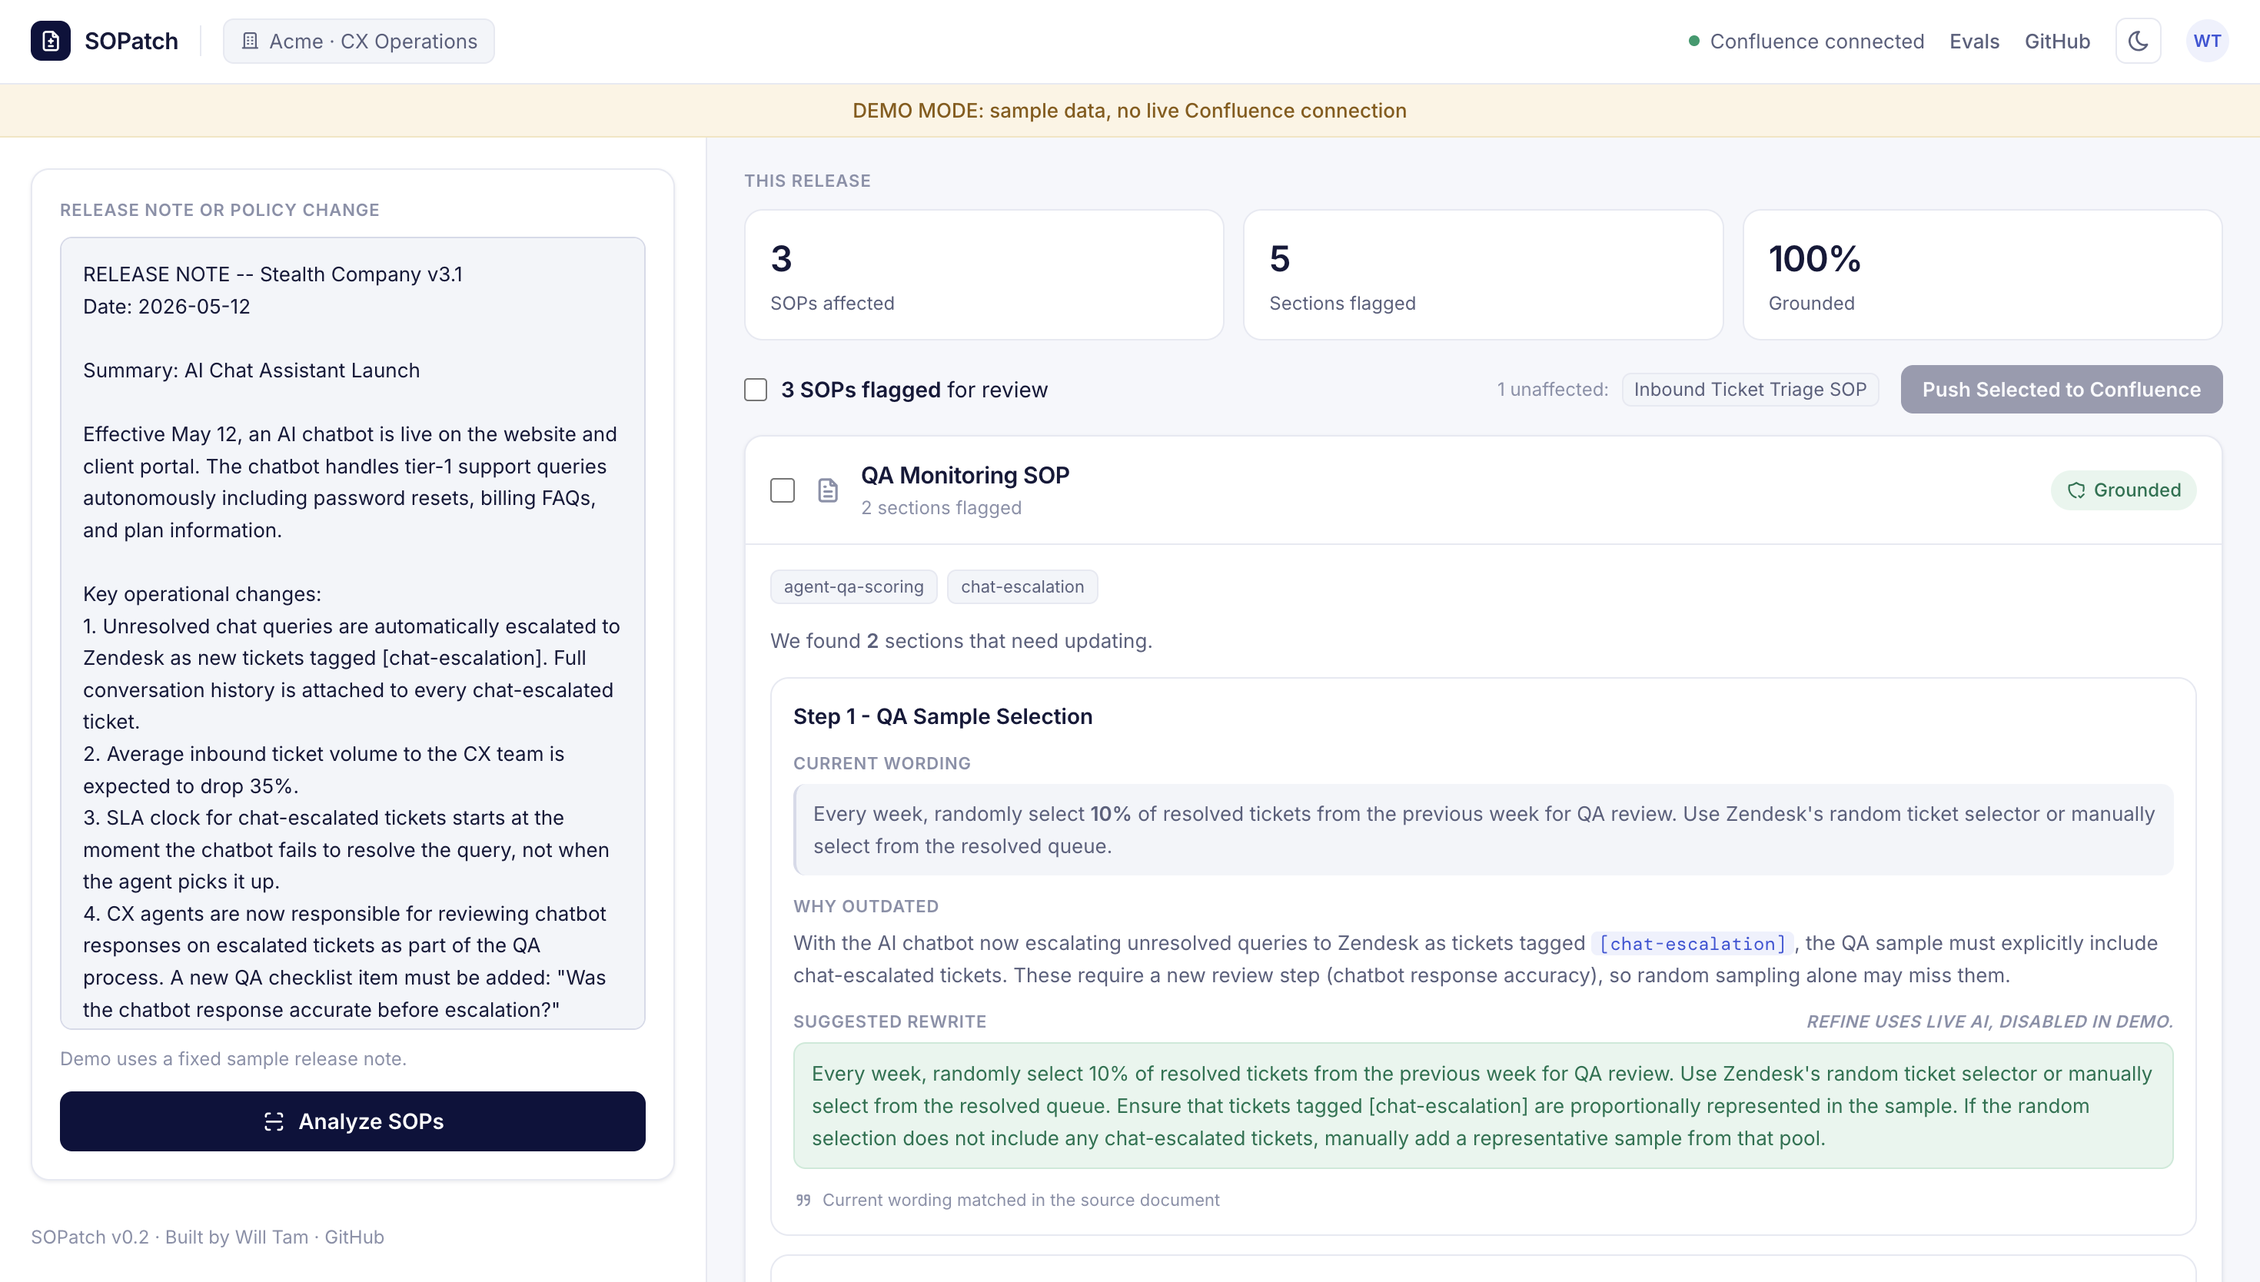
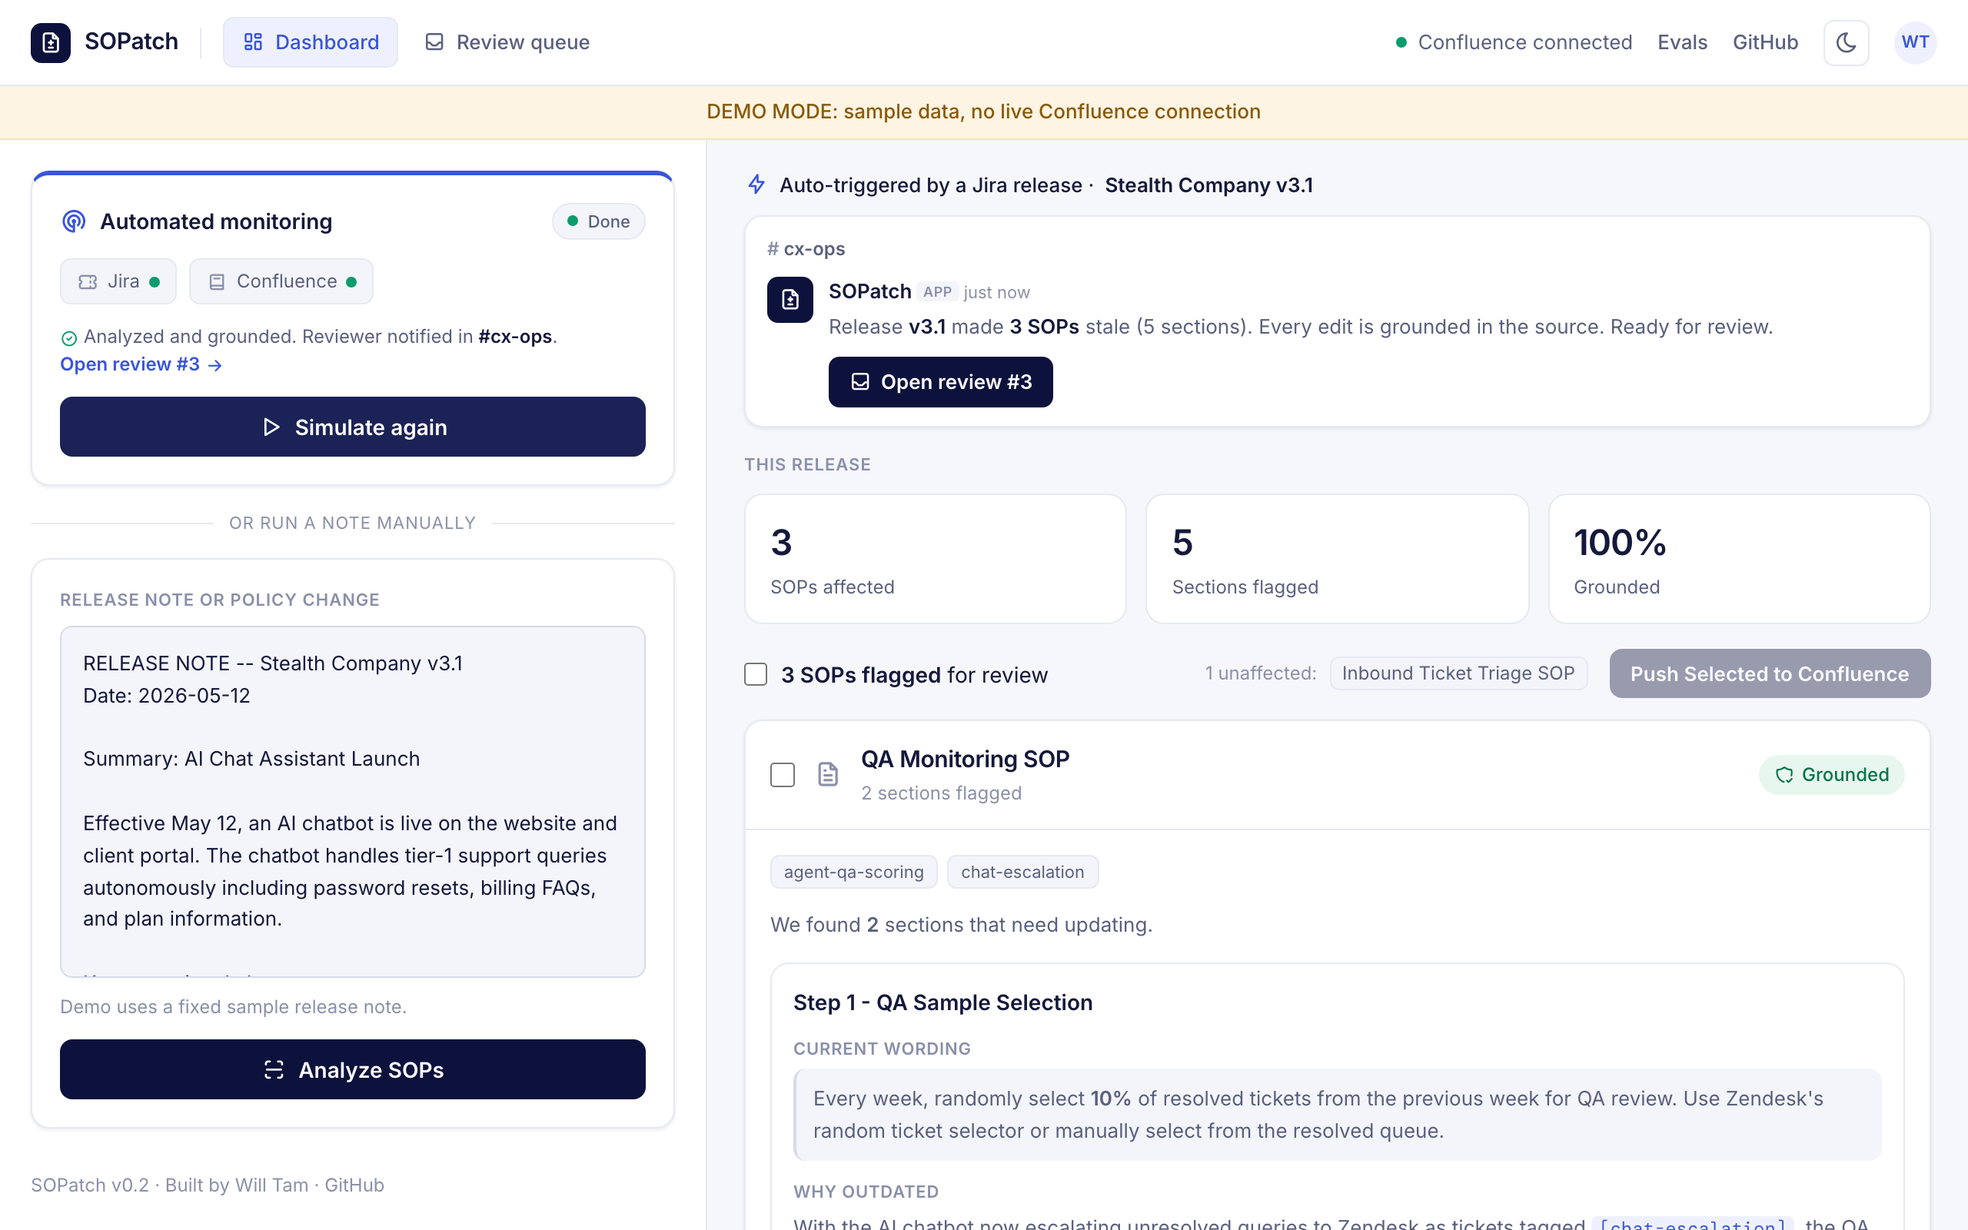
Approval now ships the edit; regenerate docs screenshots from the real app
Two loose ends from the review queue.

Approving a run only recorded a decision; pushing to Confluence was still a
separate manual step, which meant the "human approves, then it ships" story
stopped halfway. Approval now pushes each flagged SOP with version tracking and
audits every page on its own, so a partial failure records which SOPs landed and
which did not rather than failing the whole approval. Demo Mode records the
intent and sends nothing. Rejection never pushes. Three tests cover all of it.

The README screenshots were from July and showed a UI that no longer existed (no
review queue, old nav). Rather than retake them by hand and watch them rot again,
scripts/shoot_docs.py boots the demo against a throwaway database, seeds a
representative queue, drives the real UI with Playwright and writes the PNGs.
Added requirements-dev.txt for the dev-only tooling.

diff --git a/templates/review.html b/templates/review.html
@@ -173,7 +173,7 @@
     {% if run.status == 'pending' %}
     <button class="btn btn-approve" id="btn-approve" onclick="decide('approved')"><i class="ti ti-check" aria-hidden="true"></i>Approve edits</button>
     <button class="btn btn-reject" id="btn-reject" onclick="decide('rejected')"><i class="ti ti-x" aria-hidden="true"></i>Reject</button>
-    <span class="decided-note" id="decide-hint">{% if demo_mode %}Demo: your decision is recorded and audited; nothing is pushed to Confluence.{% else %}Approving records the decision. The live push to Confluence is the next step.{% endif %}</span>
+    <span class="decided-note" id="decide-hint">{% if demo_mode %}Demo: your decision is recorded and audited; nothing is pushed to Confluence.{% else %}Approving records the decision and pushes the approved edits to Confluence.{% endif %}</span>
     {% else %}
     <span class="decided-note"><i class="ti {{ 'ti-circle-check' if run.status == 'approved' else 'ti-circle-x' }}" aria-hidden="true"></i> {{ run.status | capitalize }} by {{ run.approver }} at {{ run.decided_at }}.</span>
     {% endif %}
@@ -222,13 +222,31 @@
         badge.className = 'status-badge status-' + cls;
         badge.innerHTML = `<i class="ti ${cls === 'approved' ? 'ti-circle-check' : 'ti-circle-x'}"></i> ${data.status}`;
       }
+      // Say what actually happened to the edits, not just that a button was clicked.
+      let pushNote = '';
+      const p = data.push;
+      if (p && p.demo) {
+        pushNote = ' Demo mode, so nothing was sent to Confluence.';
+      } else if (p && p.attempted) {
+        pushNote = ` Pushed ${p.pushed} of ${p.attempted} SOP(s) to Confluence` +
+                   (p.failed ? `, ${p.failed} failed (see the audit trail).` : '.');
+      }
       document.getElementById('decision-bar').innerHTML =
-        `<span class="decided-note"><i class="ti ${cls === 'approved' ? 'ti-circle-check' : 'ti-circle-x'}"></i> ${data.status[0].toUpperCase()+data.status.slice(1)} by ${data.approver} at ${data.decided_at}.</span>`;
+        `<span class="decided-note"><i class="ti ${cls === 'approved' ? 'ti-circle-check' : 'ti-circle-x'}"></i> ${data.status[0].toUpperCase()+data.status.slice(1)} by ${data.approver} at ${data.decided_at}.${pushNote}</span>`;
+
+      // Re-render the audit trail from the server so the push events show up too.
       const ul = document.getElementById('audit-list');
-      if (ul) {
-        const li = document.createElement('li');
-        li.innerHTML = `<span class="ts">${data.decided_at}</span> <span class="ev">${data.status}</span> <span>&middot; ${data.approver}</span>`;
-        ul.appendChild(li);
+      if (ul && Array.isArray(data.audit)) {
+        ul.innerHTML = '';
+        for (const e of data.audit) {
+          const li = document.createElement('li');
+          const ts = document.createElement('span'); ts.className = 'ts'; ts.textContent = e.at;
+          const ev = document.createElement('span'); ev.className = 'ev'; ev.textContent = e.event;
+          const de = document.createElement('span');
+          de.textContent = e.detail + (e.actor && e.actor !== 'system' ? ` · ${e.actor}` : '');
+          li.append(ts, ' ', ev, ' ', de);
+          ul.appendChild(li);
+        }
       }
     } catch (e) {
       if (approve) approve.disabled = false;

diff --git a/scripts/shoot_docs.py b/scripts/shoot_docs.py
@@ -1,0 +1,141 @@
+"""scripts/shoot_docs.py -- regenerate the screenshots in docs/.
+
+The README's screenshots went stale the moment the UI changed, which is the
+normal fate of hand-captured images. This script regenerates them from the real
+app so they can never drift far: it boots SOPatch in Demo Mode against a throwaway
+database, seeds a representative review queue, drives the actual UI, and writes
+the PNGs the README points at.
+
+    pip install -r requirements-dev.txt
+    playwright install chromium
+    python scripts/shoot_docs.py
+
+Demo Mode makes no external calls, so this needs no API keys and touches nothing
+real. It writes only to docs/ and a temp directory.
+"""
+
+from __future__ import annotations
+
+import os
+import shutil
+import socket
+import subprocess
+import sys
+import tempfile
+import time
+import urllib.request
+from pathlib import Path
+
+REPO = Path(__file__).resolve().parent.parent
+DOCS = REPO / "docs"
+VIEWPORT = {"width": 1280, "height": 800}
+# Retina-scale so the text stays crisp after GitHub and LinkedIn recompress it.
+SCALE = 2
+
+
+def _free_port():
+    with socket.socket() as s:
+        s.bind(("127.0.0.1", 0))
+        return s.getsockname()[1]
+
+
+def _wait_for_server(base, timeout=30):
+    deadline = time.time() + timeout
+    while time.time() < deadline:
+        try:
+            with urllib.request.urlopen(f"{base}/healthz", timeout=1) as r:
+                if r.status == 200:
+                    return True
+        except Exception:
+            time.sleep(0.25)
+    return False
+
+
+def _seed(db_path):
+    """A queue that looks like a real one: one approved, one still waiting."""
+    sys.path.insert(0, str(REPO))
+    os.environ["SOPATCH_DB"] = db_path
+    from core.store import ReviewStore
+    from demo_data import DEMO_ANALYSIS
+
+    store = ReviewStore(db_path=db_path)
+    approved = store.create_run(
+        "Jira release v3.1",
+        "Release v3.1\n\nAI Chat Assistant launch. Unresolved chat queries are escalated "
+        "to Zendesk tagged [chat-escalation]. The SLA clock for chat-escalated tickets "
+        "starts when the chatbot fails to resolve, not when the agent picks up.",
+        DEMO_ANALYSIS,
+    )
+    store.record_event(approved, "notified", detail="log")
+    store.set_decision(approved, "approved", actor="Will Tam")
+
+    pending = store.create_run(
+        "Jira OPS-42",
+        "OPS-42: Refund window changed to 14 days for chat-escalated tickets\n\n"
+        "Effective immediately, the refund window for tickets tagged [chat-escalation] "
+        "extends from 7 to 14 days. Update any SOP that quotes the 7-day window.",
+        DEMO_ANALYSIS,
+    )
+    store.record_event(pending, "notified", detail="log")
+    return pending
+
+
+def main():
+    from playwright.sync_api import sync_playwright
+
+    tmp = tempfile.mkdtemp(prefix="sopatch-shots-")
+    db_path = os.path.join(tmp, "shots.db")
+    pending_id = _seed(db_path)
+
+    port = _free_port()
+    base = f"http://127.0.0.1:{port}"
+    env = {**os.environ, "SOPATCH_DEMO": "1", "SOPATCH_DB": db_path,
+           "PORT": str(port), "FLASK_DEBUG": "0"}
+    server = subprocess.Popen([sys.executable, "app.py"], cwd=REPO, env=env,
+                              stdout=subprocess.DEVNULL, stderr=subprocess.DEVNULL)
+    try:
+        if not _wait_for_server(base):
+            raise SystemExit("the demo server did not come up")
+        DOCS.mkdir(exist_ok=True)
+
+        with sync_playwright() as p:
+            browser = p.chromium.launch()
+            page = browser.new_page(viewport=VIEWPORT, device_scale_factor=SCALE)
+            # Pin the light theme: it reads better in a README than dark.
+            page.add_init_script(
+                "try { localStorage.setItem('sopatch-theme','light'); } catch (e) {}")
+
+            # 1. The dashboard mid-story: a Jira release has just been picked up,
+            #    the SOPs are flagged, and the reviewer has a real link to open.
+            page.goto(base, wait_until="networkidle")
+            page.click("#btn-simulate")
+            page.wait_for_selector(".slack-review-btn", timeout=30_000)
+            page.wait_for_timeout(400)
+            page.screenshot(path=str(DOCS / "demo.png"))
+
+            # 2. The queue, with a decided run and a waiting one.
+            page.goto(f"{base}/reviews", wait_until="networkidle")
+            page.wait_for_timeout(300)
+            page.screenshot(path=str(DOCS / "review-queue.png"))
+
+            # 3. One review still awaiting a human, showing the before/after.
+            page.goto(f"{base}/review/{pending_id}", wait_until="networkidle")
+            page.wait_for_timeout(300)
+            page.screenshot(path=str(DOCS / "review-page.png"))
+
+            browser.close()
+
+        for name in ("demo.png", "review-queue.png", "review-page.png"):
+            size = (DOCS / name).stat().st_size
+            print(f"  wrote docs/{name}  ({size // 1024} KB)")
+    finally:
+        server.terminate()
+        try:
+            server.wait(timeout=10)
+        except subprocess.TimeoutExpired:
+            server.kill()
+        shutil.rmtree(tmp, ignore_errors=True)
+
+
+if __name__ == "__main__":
+    main()

diff --git a/app.py b/app.py
@@ -346,9 +346,44 @@ def review_page(run_id):
                            demo_mode=env_demo_enabled())
 
 
+def _push_approved_run(run_id, run):
+    """Push an approved run's edits to Confluence, one page per flagged SOP.
+
+    Approval is the moment the human takes responsibility for the edit, so it is
+    also the moment the edit ships. Every page is audited individually: a partial
+    failure leaves a record of exactly which SOPs landed and which did not,
+    rather than failing the whole approval. Demo Mode never touches Confluence.
+    """
+    results = run.get('result', {}).get('results', [])
+    if env_demo_enabled():
+        store.record_event(run_id, 'push_skipped', actor='system',
+                           detail='demo mode, nothing sent to Confluence')
+        return {'demo': True, 'attempted': 0, 'pushed': 0, 'failed': 0}
+
+    creds = get_credentials()
+    pushed, failed = 0, 0
+    for r in results:
+        page_id = (r.get('page_id') or '').strip()
+        analysis = (r.get('analysis') or '').strip()
+        title = r.get('title', 'SOP')
+        if not page_id or not analysis:
+            continue
+        try:
+            out = push_to_confluence(page_id, analysis, creds)
+            pushed += 1
+            store.record_event(
+                run_id, 'pushed', actor='system',
+                detail=f"{title} -> v{out.get('new_version')} {out.get('url', '')}".strip())
+        except Exception as e:
+            failed += 1
+            log.error("review.push_error", run_id=run_id, page_id=page_id, error=str(e))
+            store.record_event(run_id, 'push_failed', actor='system', detail=f"{title}: {e}")
+    return {'demo': False, 'attempted': pushed + failed, 'pushed': pushed, 'failed': failed}
+
+
 @app.route('/review/<int:run_id>/decision', methods=['POST'])
 def review_decision(run_id):
-    """Record an approve/reject decision on a run and append an audit event."""
+    """Record an approve/reject decision, and on approval push the edits."""
     data = request.get_json(silent=True) or request.form.to_dict() or {}
     try:
         req = DecisionRequest(**data)
@@ -358,12 +393,17 @@ def review_decision(run_id):
     updated = store.set_decision(run_id, req.decision, actor=req.approver.strip() or 'reviewer')
     if updated is None:
         return _error('Review not found.', 404)
-    log.info("review.decision", run_id=run_id, decision=req.decision, approver=req.approver)
+
+    push = _push_approved_run(run_id, updated) if req.decision == 'approved' else None
+    log.info("review.decision", run_id=run_id, decision=req.decision,
+             approver=req.approver, pushed=(push or {}).get('pushed'))
     return jsonify({
         'run_id': run_id,
         'status': updated['status'],
         'decided_at': updated['decided_at'],
         'approver': updated['approver'],
+        'push': push,
+        'audit': store.get_run(run_id)['audit'],
     })
 
 

diff --git a/tests/test_review.py b/tests/test_review.py
@@ -6,6 +6,7 @@ import pytest
 
 import app as app_module
 from core.store import ReviewStore
+from demo_data import DEMO_ANALYSIS
 
 VERSION_EVENT = {
     "webhookEvent": "jira:version_released",
@@ -64,6 +65,48 @@ def test_decision_rejects(client):
     run_id = _fire_webhook(client).get_json()["run_id"]
     dec = client.post(f"/review/{run_id}/decision", json={"decision": "rejected"})
     assert dec.get_json()["status"] == "rejected"
+
+
+def test_approval_in_demo_mode_never_pushes(client):
+    """Demo Mode must record the intent to push without touching Confluence."""
+    run_id = _fire_webhook(client).get_json()["run_id"]
+    body = client.post(f"/review/{run_id}/decision", json={"decision": "approved"}).get_json()
+    assert body["push"]["demo"] is True
+    assert body["push"]["pushed"] == 0
+    assert "push_skipped" in [e["event"] for e in body["audit"]]
+
+
+def test_rejection_never_pushes(client):
+    run_id = _fire_webhook(client).get_json()["run_id"]
+    body = client.post(f"/review/{run_id}/decision", json={"decision": "rejected"}).get_json()
+    assert body["push"] is None
+    assert not [e for e in body["audit"] if e["event"].startswith("push")]
+
+
+def test_approval_pushes_each_sop_and_audits_failures(client, monkeypatch, tmp_path):
+    """Live path: every flagged SOP is pushed and audited, and one page failing
+    does not lose the record of the ones that succeeded."""
+    monkeypatch.delenv("SOPATCH_DEMO", raising=False)
+    monkeypatch.setattr(app_module, "get_credentials", lambda: {"email": "e", "api_token": "t"})
+
+    calls = []
+
+    def fake_push(page_id, analysis, creds):
+        calls.append(page_id)
+        if page_id == "demo-rep-002":
+            raise RuntimeError("Confluence said no")
+        return {"title": "T", "new_version": 3, "url": "https://x/y"}
+
+    monkeypatch.setattr(app_module, "push_to_confluence", fake_push)
+    # Build the run directly so the webhook does not need demo mode to produce it.
+    run_id = app_module.store.create_run("Jira release v3.1", "note", DEMO_ANALYSIS)
+
+    body = client.post(f"/review/{run_id}/decision", json={"decision": "approved"}).get_json()
+    assert len(calls) == 3
+    assert body["push"] == {"demo": False, "attempted": 3, "pushed": 2, "failed": 1}
+    events = [e["event"] for e in body["audit"]]
+    assert events.count("pushed") == 2
+    assert events.count("push_failed") == 1
 
 
 def test_bad_decision_is_400(client):

diff --git a/README.md b/README.md
@@ -183,6 +183,15 @@ change that triggered it, every flagged SOP with a before/after of each drafted
 edit, and Approve / Reject controls. Approving or rejecting is one click and is
 attributed to the reviewer with a timestamp.
 
+![The review queue: every automated run with its status](docs/review-queue.png)
+
+Approving is also what ships the edit. Each flagged SOP is pushed to Confluence
+with version tracking and audited individually, so if one page fails the record
+still shows exactly which SOPs landed and which did not, instead of the whole
+approval failing.
+
+![A review awaiting approval, with the before and after of each drafted edit](docs/review-page.png)
+
 Every step is written to an append-only audit trail, so a change is traceable
 end to end: the Jira source, the SOPs it flagged, and who approved it and when.
 The queue at `/reviews` lists every run and its status. It is backed by SQLite
@@ -194,6 +203,12 @@ In Demo Mode the dashboard's **Simulate a Jira release** button posts to the rea
 straight to it. The whole loop (detect, analyze, ground, notify, review, approve,
 audit) is demonstrable in the browser with no external service and no curl. There
 is a shot by shot walkthrough in [docs/DEMO_SCRIPT.md](docs/DEMO_SCRIPT.md).
+
+The screenshots in this README are generated, not hand-captured: `python
+scripts/shoot_docs.py` boots the demo against a throwaway database, seeds a
+representative queue, drives the real UI and writes the PNGs. Screenshots rot the
+moment the UI moves, so it seemed better to make them reproducible than to
+remember to retake them.
 
 ```bash
 SOPATCH_DEMO=1 python3 app.py &

diff --git a/ROADMAP.md b/ROADMAP.md
@@ -30,6 +30,10 @@ ship only once design partners have shown the problem is worth paying to solve.
   before/after of every drafted edit, and Approve or Reject is one click,
   attributed to the reviewer with a timestamp. Every step is written to an
   append-only audit trail, traceable from the Jira source to the approval.
+- Approval ships the edit. Approving a run pushes each flagged SOP to Confluence
+  with version tracking and audits every page individually, so a partial failure
+  records exactly which SOPs landed and which did not instead of failing the
+  whole approval. Demo Mode records the intent and sends nothing.
 
 ## Next: finish making it run itself
 
@@ -38,9 +42,8 @@ run is recorded and approved through the review queue. What remains is wiring th
 trigger to live services and making it multi-tenant.
 
 - **Deliver and connect for real.** Send the notification to real Slack or email
-  (it logs today when unconfigured), connect a live Jira via OAuth rather than an
-  unauthenticated webhook, and push the approved edits to Confluence on approval
-  (approval is recorded today; the push is still the manual step from the app).
+  (it logs today when unconfigured), and connect a live Jira via OAuth rather than
+  an unauthenticated webhook.
 - **The foundation that trigger needs.** Real login (SSO), a workspace model so
   one customer's SOPs and credentials are isolated, and per-tenant encrypted
   secrets in place of the single shared credential.
